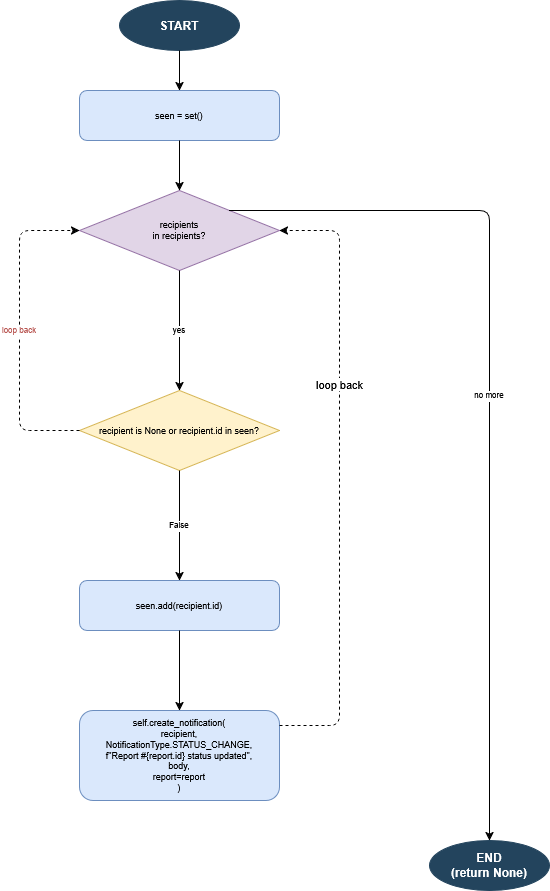
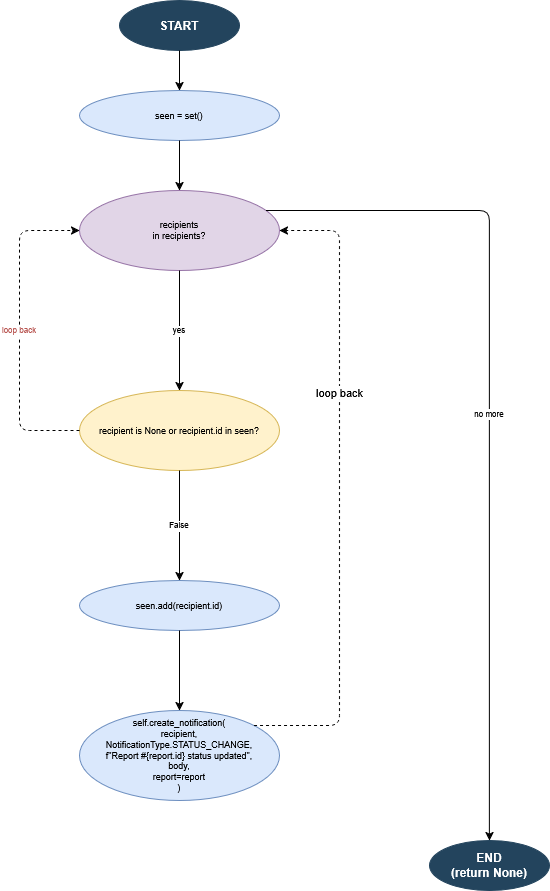
inizio della node coverage

diff --git a/doc/deliverable/06_WhiteBoxReport.md b/doc/deliverable/06_WhiteBoxReport.md
@@ -144,11 +144,22 @@ La presenza dei loop rende i percorsi teoricamente infiniti; considerando ogni l
 - ![](../../data/img/notify_status_change.png)
 
 ### Atomic Conditions
+- **C1a:** `recipient` is `None` primo operando dell' `and`
+- **C1b:** `recipient.id` in `seen`
 
 
 ### Structural Lower Bound
 
+- **Nodi**: 7
+- **Archi**: 8
+- **Complessità ciclomatica**: V(G) = E − N + 2 = 9 − 7 + 2 = **3**
+- **Nodi terminali distinti**: 1 (`recipient in recipients`)
+- **Loop**: 1 (Loop 1 su `recipients`)
+
 ### Node Coverage
+| Test | `recipients` | `report` | `body` | Outcome |
+|------|----------|------------|------------------|--------------------------|
+| T1 |  |  |  |  |
 
 ### Edge Coverage
 